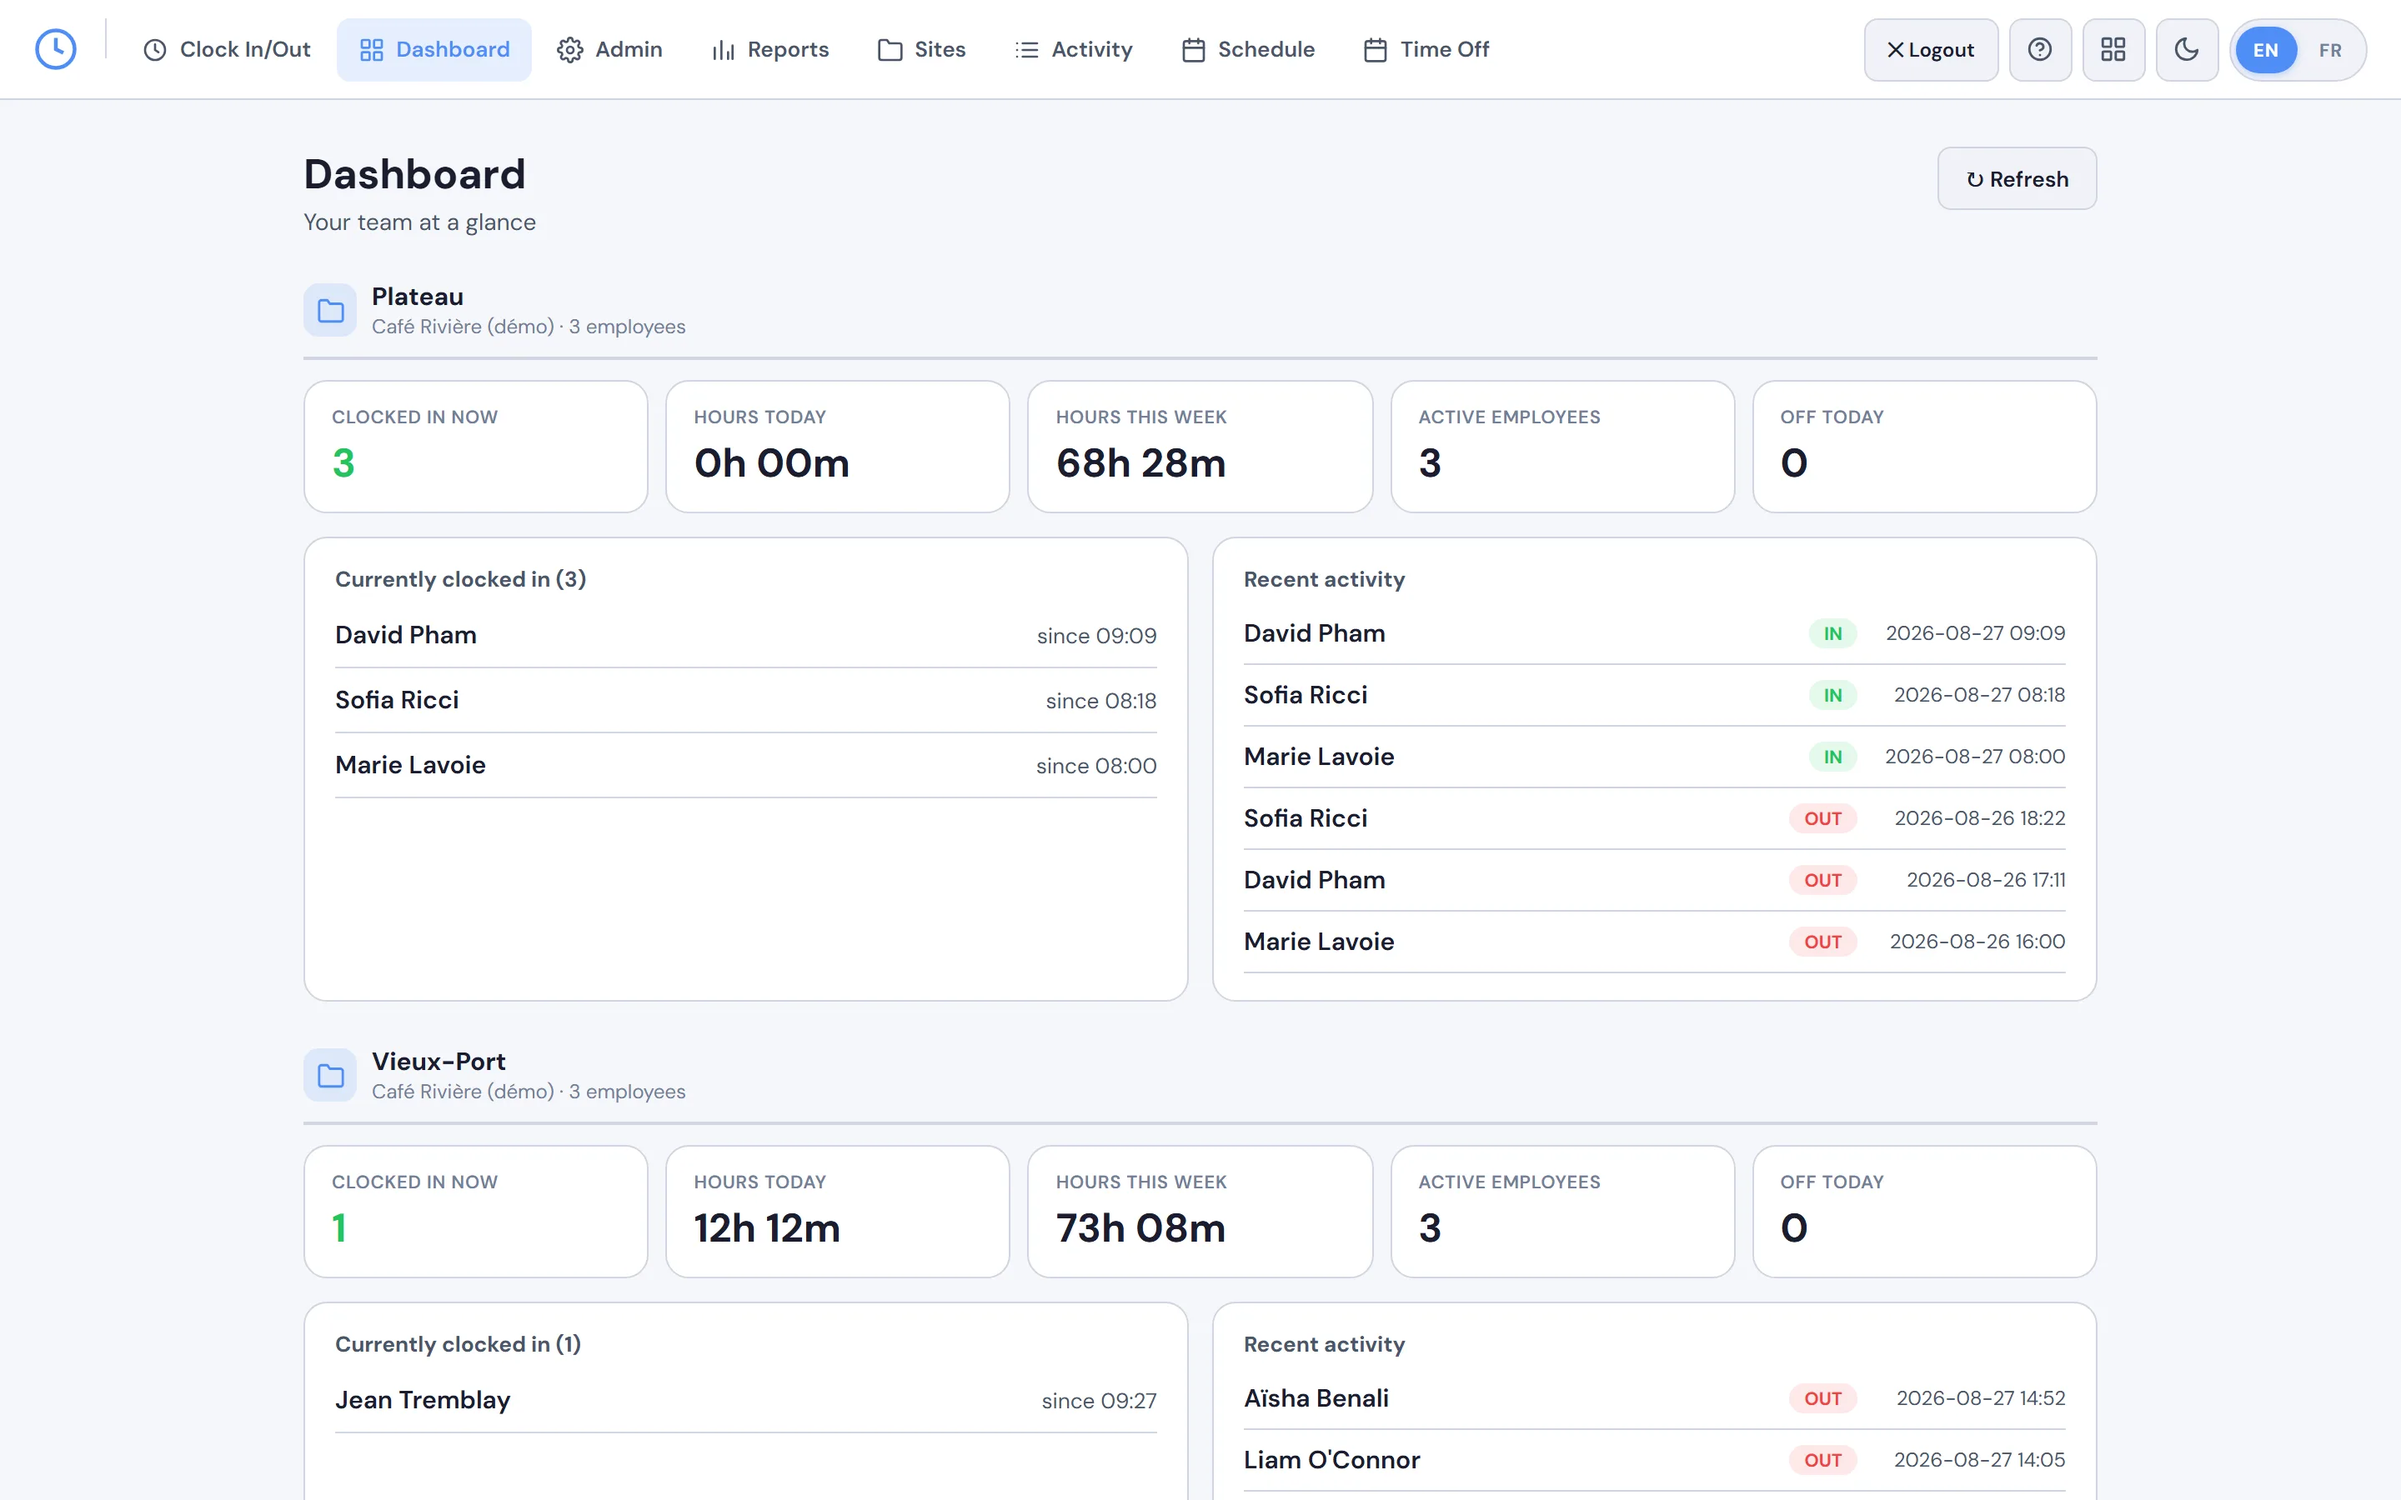
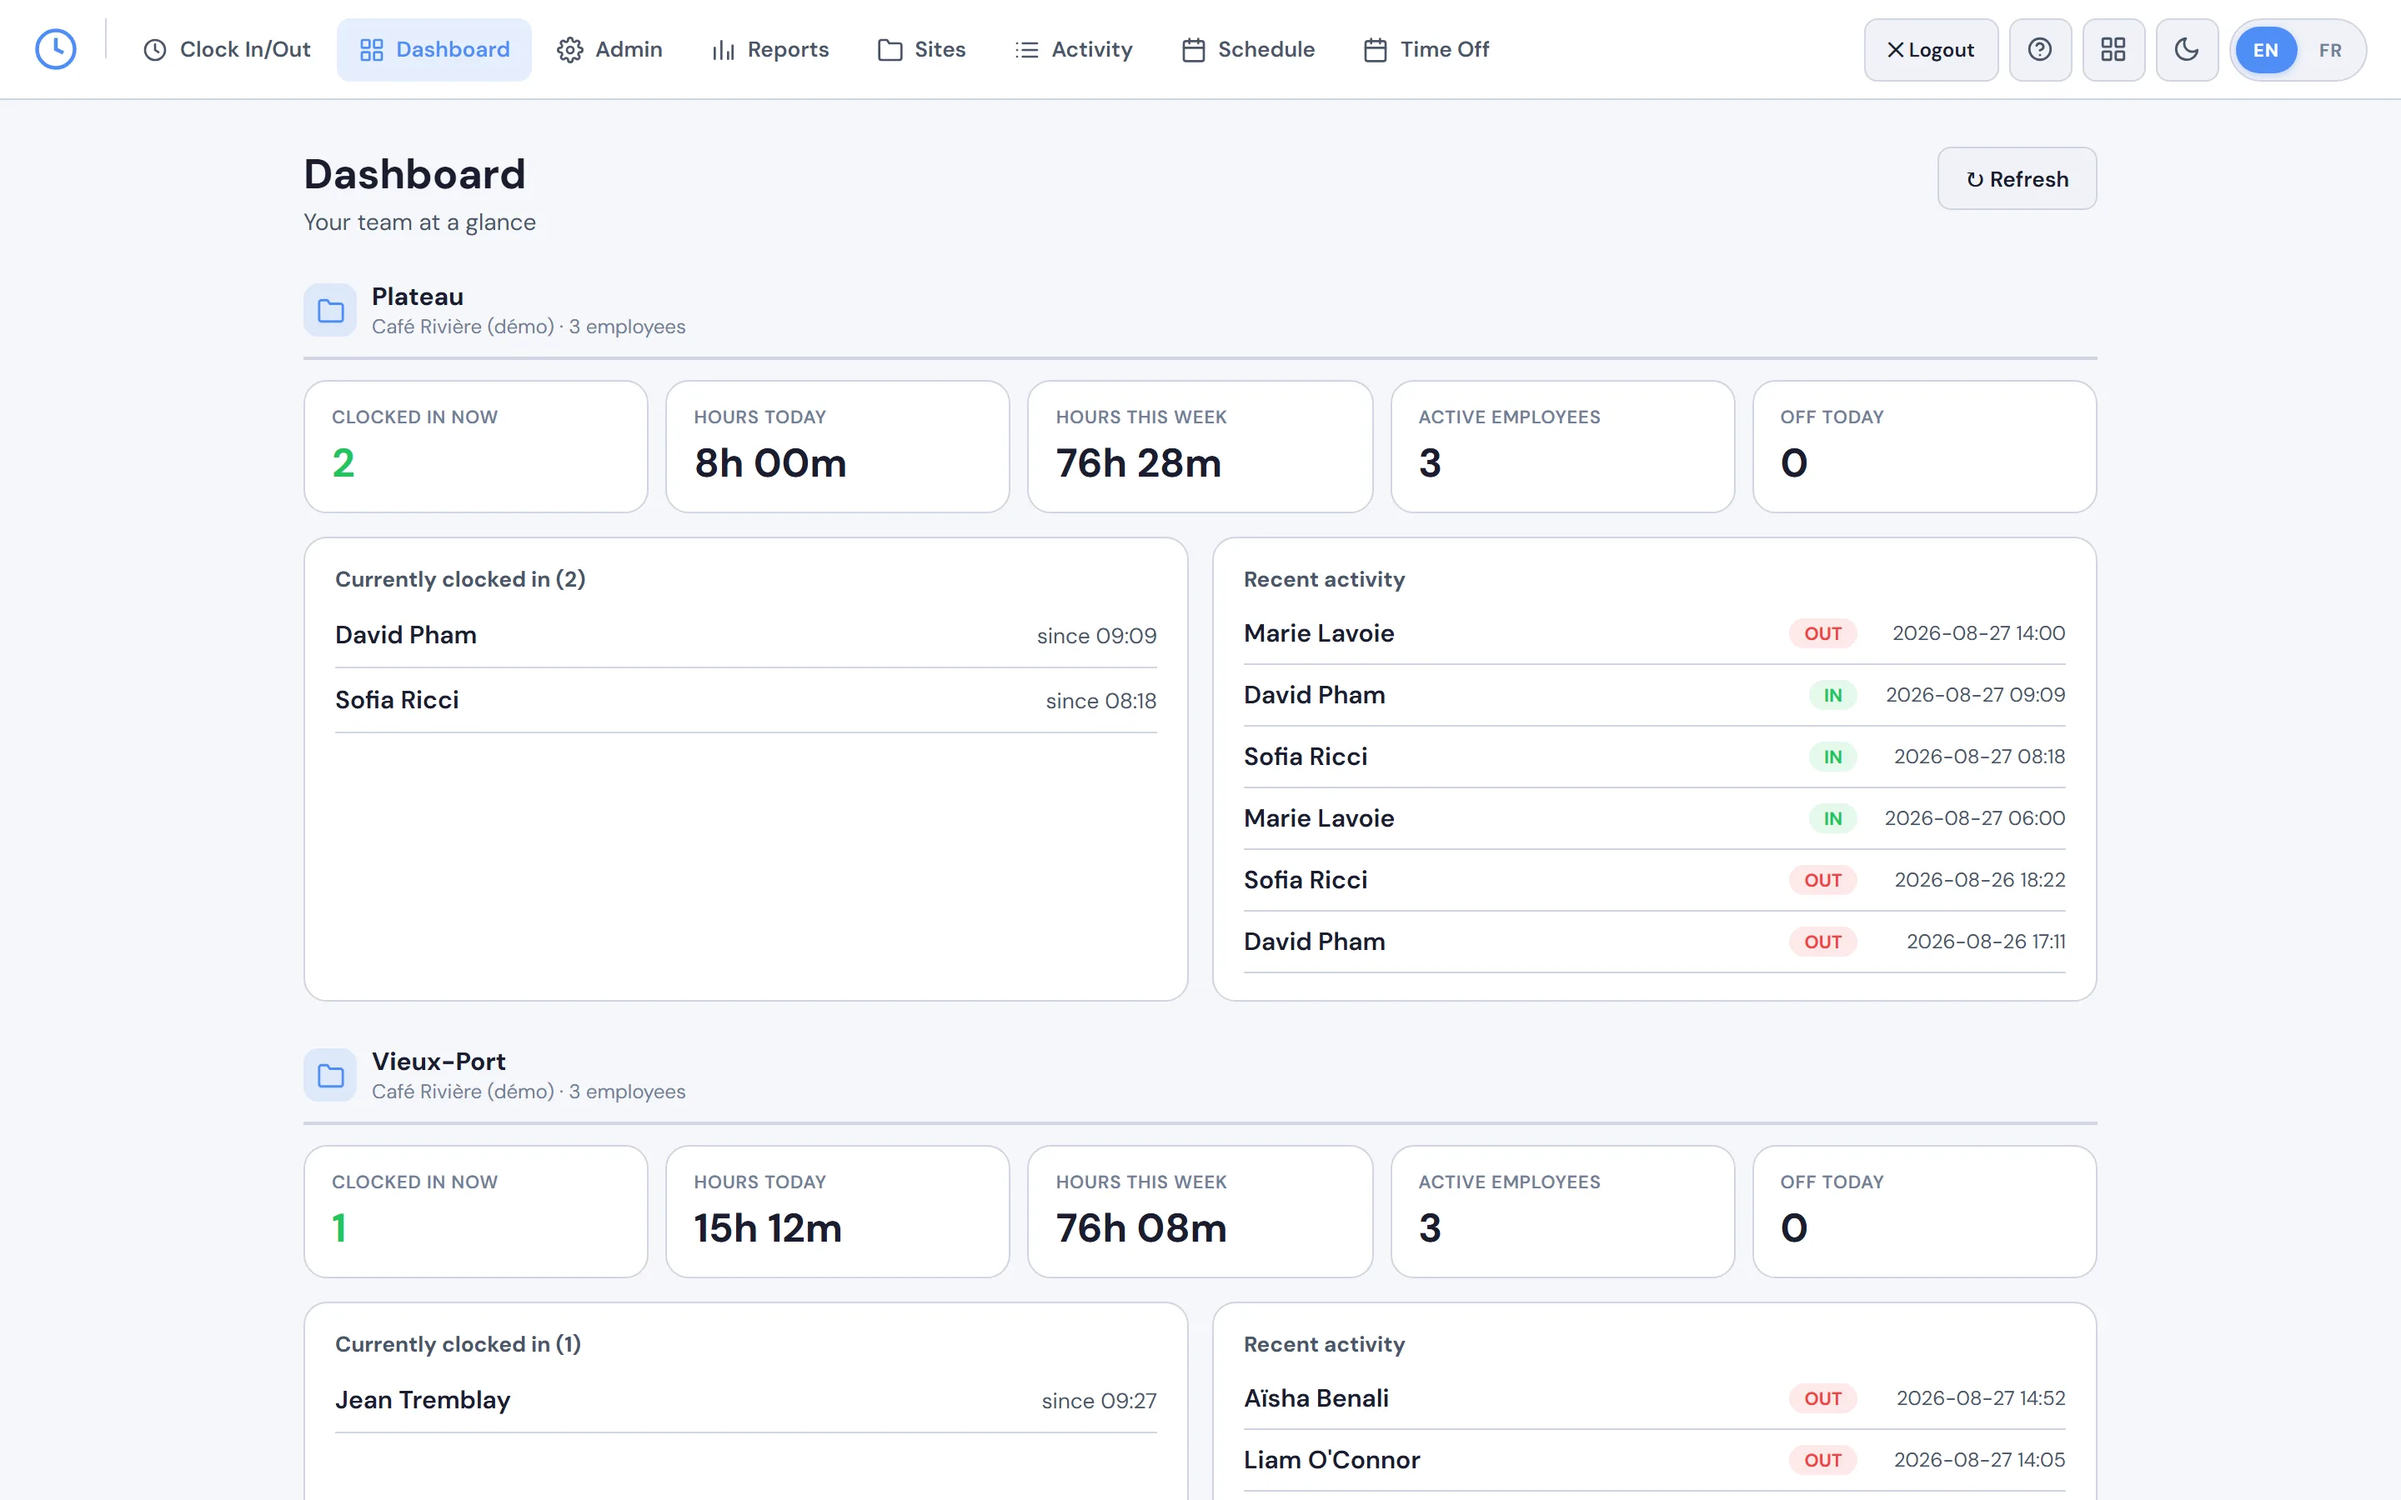
Landing hero: use a real screenshot, and fix the demo's empty hours tile
The hero "product preview" was 33 lines of hand-built HTML captioned "This is
the real dashboard" — it wasn't, and its numbers (27h 15m, 218h) matched
nothing. Replaced with an actual capture of the running app that swaps with
both language (data-shot, applied in applyAllTranslations) and theme.

Also fixes the demo seed: employees 0-2 are Plateau and 3-5 are Vieux-Port, so
the old "first four are still clocked in" split left Plateau with no completed
shift and an "hours today" tile reading 0h 00m. That tile is the first number a
prospect sees in the live demo, and it's in the landing screenshot. Now every
site has at least one finished shift (8h 00m / 15h 12m).

diff --git a/index.html b/index.html
@@ -522,6 +522,27 @@ body.role-resolved.role-admin [data-admin-only]{display:block;}
 .land-btn-primary:hover{opacity:.88;transform:translateY(-1px);}
 .land-btn-secondary{padding:14px 32px;background:var(--surface);border:1.5px solid var(--border);border-radius:12px;color:var(--text);font-family:inherit;font-size:15px;font-weight:600;cursor:pointer;transition:all .15s;}
 .land-btn-secondary:hover{border-color:var(--accent);color:var(--accent);}
+/* ── Hero product screenshot ──
+   Real captures from tools/capture-screenshots.mjs, one per theme. Note the theme convention
+   here is inverted from the usual: dark is the unstamped default (:root), and light is stamped
+   [data-theme="light"] by the boot script — so the dark shot is the default and the light shot
+   is what gets swapped in. */
+.land-preview{max-width:1000px;margin:-10px auto 0;padding:0 20px 10px;}
+.land-shot-frame{display:block;width:100%;padding:0;cursor:pointer;border-radius:14px;overflow:hidden;
+  border:1px solid var(--border);background:var(--surface);box-shadow:var(--shadow-lg);
+  transition:transform .18s ease,box-shadow .18s ease;}
+.land-shot-frame:hover{transform:translateY(-2px);}
+.land-shot-frame:focus-visible{outline:2px solid var(--accent);outline-offset:3px;}
+.land-shot-chrome{display:flex;align-items:center;gap:7px;padding:9px 14px;background:var(--surface2);
+  border-bottom:1px solid var(--border);}
+.land-dot{width:10px;height:10px;border-radius:50%;}
+.land-shot-url{margin-left:10px;font-size:11.5px;color:var(--text3);font-family:'DM Mono',monospace;}
+.land-shot{display:block;width:100%;height:auto;}
+.land-shot-light{display:none;}
+[data-theme="light"] .land-shot-light{display:block;}
+[data-theme="light"] .land-shot-dark{display:none;}
+.land-preview-note{text-align:center;font-size:12.5px;color:var(--text3);margin-top:10px;}
+@media (prefers-reduced-motion:reduce){.land-shot-frame{transition:none;}.land-shot-frame:hover{transform:none;}}
 .land-section{padding:70px 24px;max-width:1080px;margin:0 auto;}
 .land-section h2{text-align:center;font-size:32px;font-weight:700;margin-bottom:10px;}
 .land-section .sub{text-align:center;color:var(--text2);margin-bottom:50px;font-size:16px;}
@@ -954,39 +975,25 @@ border-top:1px solid var(--border);margin:18px 0;}
     <p style="font-size:12px;color:var(--text3);margin-top:16px" data-i18n="land.freeNote">Free forever: 1 site · up to 10 employees · geofencing &amp; kiosk included</p>
   </div>
 
-  <!-- PRODUCT PREVIEW — real UI, real sample data; clicking opens the live demo -->
-  <div style="max-width:1000px;margin:-10px auto 0;padding:0 20px 10px">
-    <div onclick="startDemo()" style="cursor:pointer;border-radius:14px;overflow:hidden;border:1px solid var(--border);box-shadow:0 18px 50px rgba(15,23,42,.16);background:var(--surface)">
-      <div style="display:flex;align-items:center;gap:7px;padding:9px 14px;background:var(--surface2);border-bottom:1px solid var(--border)">
-        <span style="width:10px;height:10px;border-radius:50%;background:#ef4444"></span>
-        <span style="width:10px;height:10px;border-radius:50%;background:#f59e0b"></span>
-        <span style="width:10px;height:10px;border-radius:50%;background:#22c55e"></span>
-        <span style="margin-left:10px;font-size:11.5px;color:var(--text3);font-family:'DM Mono',monospace">punchclock.ca — Café Rivière</span>
-      </div>
-      <div style="padding:18px 20px">
-        <div style="display:grid;grid-template-columns:repeat(4,1fr);gap:10px;margin-bottom:14px">
-          <div style="background:var(--surface2);border-radius:10px;padding:12px 14px"><div style="font-size:10px;color:var(--text3);text-transform:uppercase;letter-spacing:.4px;font-weight:700" data-i18n="dash.clockedIn">Clocked in now</div><div style="font-size:22px;font-weight:700;color:var(--green);margin-top:4px">4</div></div>
-          <div style="background:var(--surface2);border-radius:10px;padding:12px 14px"><div style="font-size:10px;color:var(--text3);text-transform:uppercase;letter-spacing:.4px;font-weight:700" data-i18n="dash.hoursToday">Hours today</div><div style="font-size:22px;font-weight:700;margin-top:4px">27h 15m</div></div>
-          <div style="background:var(--surface2);border-radius:10px;padding:12px 14px"><div style="font-size:10px;color:var(--text3);text-transform:uppercase;letter-spacing:.4px;font-weight:700" data-i18n="dash.hoursWeek">Hours this week</div><div style="font-size:22px;font-weight:700;margin-top:4px">218h</div></div>
-          <div style="background:var(--surface2);border-radius:10px;padding:12px 14px"><div style="font-size:10px;color:var(--text3);text-transform:uppercase;letter-spacing:.4px;font-weight:700" data-i18n="dash.activeEmps">Active employees</div><div style="font-size:22px;font-weight:700;margin-top:4px">6</div></div>
-        </div>
-        <div style="display:grid;grid-template-columns:1fr 1fr;gap:14px">
-          <div style="border:1px solid var(--border);border-radius:10px;padding:13px 15px">
-            <div style="font-size:12px;font-weight:700;color:var(--text2);margin-bottom:8px" data-i18n="dash.currentlyIn">Currently clocked in</div>
-            <div style="display:flex;justify-content:space-between;font-size:12.5px;padding:5px 0;border-bottom:1px solid var(--border)"><span style="font-weight:600">Marie Lavoie</span><span style="color:var(--text2)">8:07</span></div>
-            <div style="display:flex;justify-content:space-between;font-size:12.5px;padding:5px 0;border-bottom:1px solid var(--border)"><span style="font-weight:600">David Pham</span><span style="color:var(--text2)">9:14</span></div>
-            <div style="display:flex;justify-content:space-between;font-size:12.5px;padding:5px 0"><span style="font-weight:600">Sofia Ricci</span><span style="color:var(--text2)">9:31</span></div>
-          </div>
-          <div style="border:1px solid var(--border);border-radius:10px;padding:13px 15px">
-            <div style="font-size:12px;font-weight:700;color:var(--text2);margin-bottom:8px" data-i18n="dash.recentActivity">Recent activity</div>
-            <div style="display:flex;justify-content:space-between;align-items:center;font-size:12.5px;padding:5px 0;border-bottom:1px solid var(--border)"><span style="font-weight:600">Jean Tremblay</span><span style="font-size:10px;font-weight:700;padding:1px 8px;border-radius:20px;background:rgba(34,197,94,.14);color:var(--green)">IN</span></div>
-            <div style="display:flex;justify-content:space-between;align-items:center;font-size:12.5px;padding:5px 0;border-bottom:1px solid var(--border)"><span style="font-weight:600">Aïsha Benali</span><span style="font-size:10px;font-weight:700;padding:1px 8px;border-radius:20px;background:rgba(239,68,68,.14);color:var(--red)">OUT</span></div>
-            <div style="display:flex;justify-content:space-between;align-items:center;font-size:12.5px;padding:5px 0"><span style="font-weight:600">Liam O'Connor</span><span style="font-size:10px;font-weight:700;padding:1px 8px;border-radius:20px;background:rgba(239,68,68,.14);color:var(--red)">OUT</span></div>
-          </div>
-        </div>
-      </div>
-    </div>
-    <p style="text-align:center;font-size:12.5px;color:var(--text3);margin-top:10px"><span data-i18n="land.previewNote">This is the real dashboard — click it to explore the live demo with sample data.</span></p>
+  <!-- PRODUCT PREVIEW — an actual screenshot of the running app, captured by
+       tools/capture-screenshots.mjs. Swaps with language (data-shot, applied in
+       applyAllTranslations) and with theme (.land-shot-light/.land-shot-dark in CSS). -->
+  <div class="land-preview">
+    <button type="button" class="land-shot-frame" onclick="startDemo()" aria-label="Open the live demo">
+      <span class="land-shot-chrome">
+        <span class="land-dot" style="background:#ef4444"></span>
+        <span class="land-dot" style="background:#f59e0b"></span>
+        <span class="land-dot" style="background:#22c55e"></span>
+        <span class="land-shot-url">punchclock.ca</span>
+      </span>
+      <img class="land-shot land-shot-dark" data-shot="product-dashboard-dark"
+           src="assets/screenshots/product-dashboard-dark-en.webp"
+           width="1440" height="900" alt="" fetchpriority="high" decoding="async">
+      <img class="land-shot land-shot-light" data-shot="hero-dashboard"
+           src="assets/screenshots/hero-dashboard-en.webp"
+           width="1440" height="900" alt="" fetchpriority="high" decoding="async">
+    </button>
+    <p class="land-preview-note"><span data-i18n="land.previewNote">This is the real dashboard — click it to explore the live demo with sample data.</span></p>
   </div>
 
   <!-- TRUST BAND — Quebec-first positioning -->
@@ -4390,9 +4397,14 @@ function _demoBuildData(){
     EMPS.forEach((e,i)=>{ if((i+back)%5===0) return;    // occasional day off
       mk(e,d,8+(i%2),(i*7)%60,'IN'); mk(e,d,16+(i%3),(i*11)%60,'OUT'); });
   }
-  EMPS.forEach((e,i)=>{                                  // today: 4 still in, 2 finished
-    if(i<4){ mk(e,today,8+(i%2),(i*9)%60,'IN'); }
-    else { mk(e,today,8,(i*5)%60,'IN'); mk(e,today,14,(i*13)%60,'OUT'); }
+  // Today: some finished, some still on the clock — but deliberately at BOTH sites. Employees
+  // 0-2 are Plateau and 3-5 are Vieux-Port, so a plain "first four are still in" split leaves
+  // Plateau with no completed shift and its "hours today" tile reads 0h 00m. That tile is the
+  // first number a prospect sees in the live demo, and it's in the landing-page screenshot.
+  const finishedToday=new Set([0,4,5]);                  // one at Plateau, two at Vieux-Port
+  EMPS.forEach((e,i)=>{
+    if(finishedToday.has(i)){ mk(e,today,6+(i%2),(i*5)%60,'IN'); mk(e,today,14,(i*13)%60,'OUT'); }
+    else { mk(e,today,8+(i%2),(i*9)%60,'IN'); }
   });
   punches.sort((a,b)=>new Date(b.punched_at)-new Date(a.punched_at));
   // Upcoming shifts so the Schedule page has something to show
@@ -13003,6 +13015,11 @@ function applyAllTranslations(){
   // Handle HTML translations (e.g. hero title with <span>)
   document.querySelectorAll('[data-i18n-html]').forEach(function(el){
     el.innerHTML=t(el.dataset.i18nHtml);
+  });
+  // Screenshots exist per language — swap the file rather than any text on it.
+  document.querySelectorAll('img[data-shot]').forEach(function(img){
+    var next='assets/screenshots/'+img.dataset.shot+'-'+_appLang+'.webp';
+    if(!img.getAttribute('src').endsWith(next)) img.setAttribute('src',next);
   });
   // Sync lang switcher button states
   document.querySelectorAll('.lang-btn[data-lang]').forEach(function(btn){
